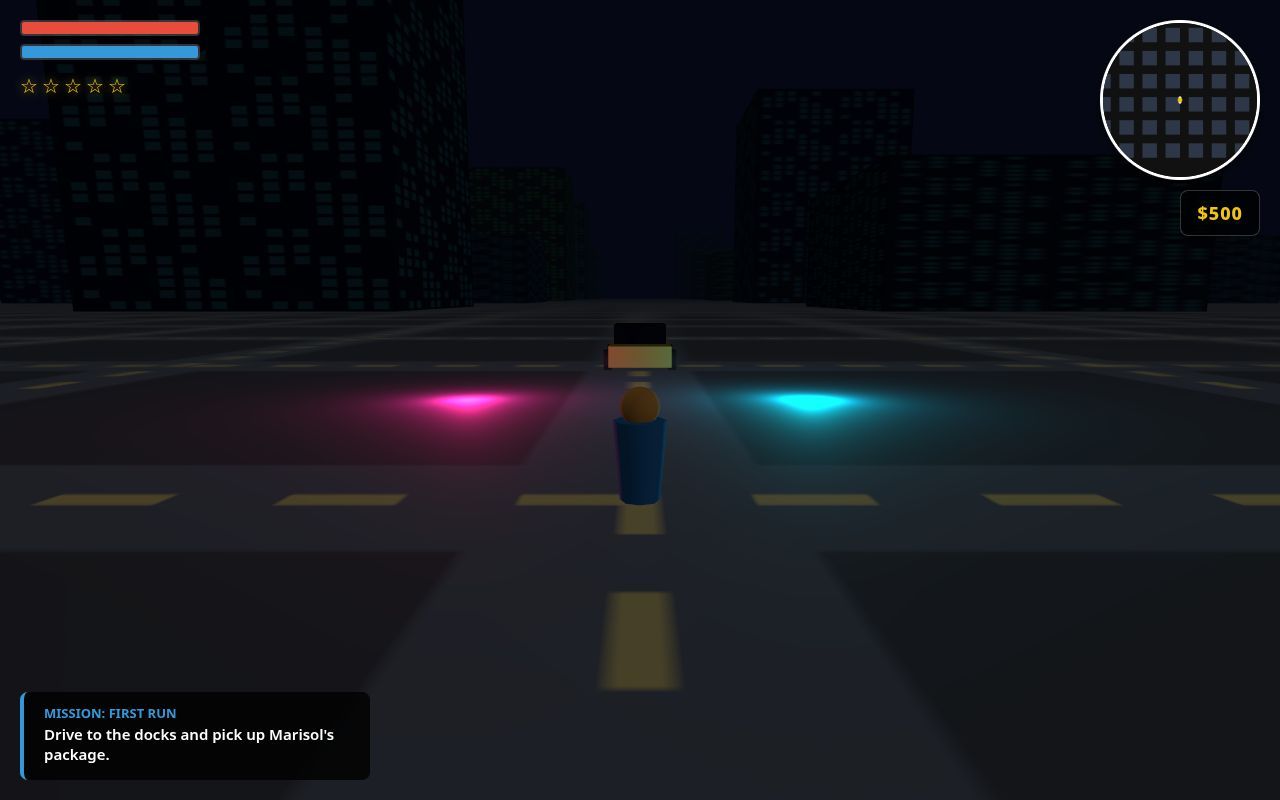
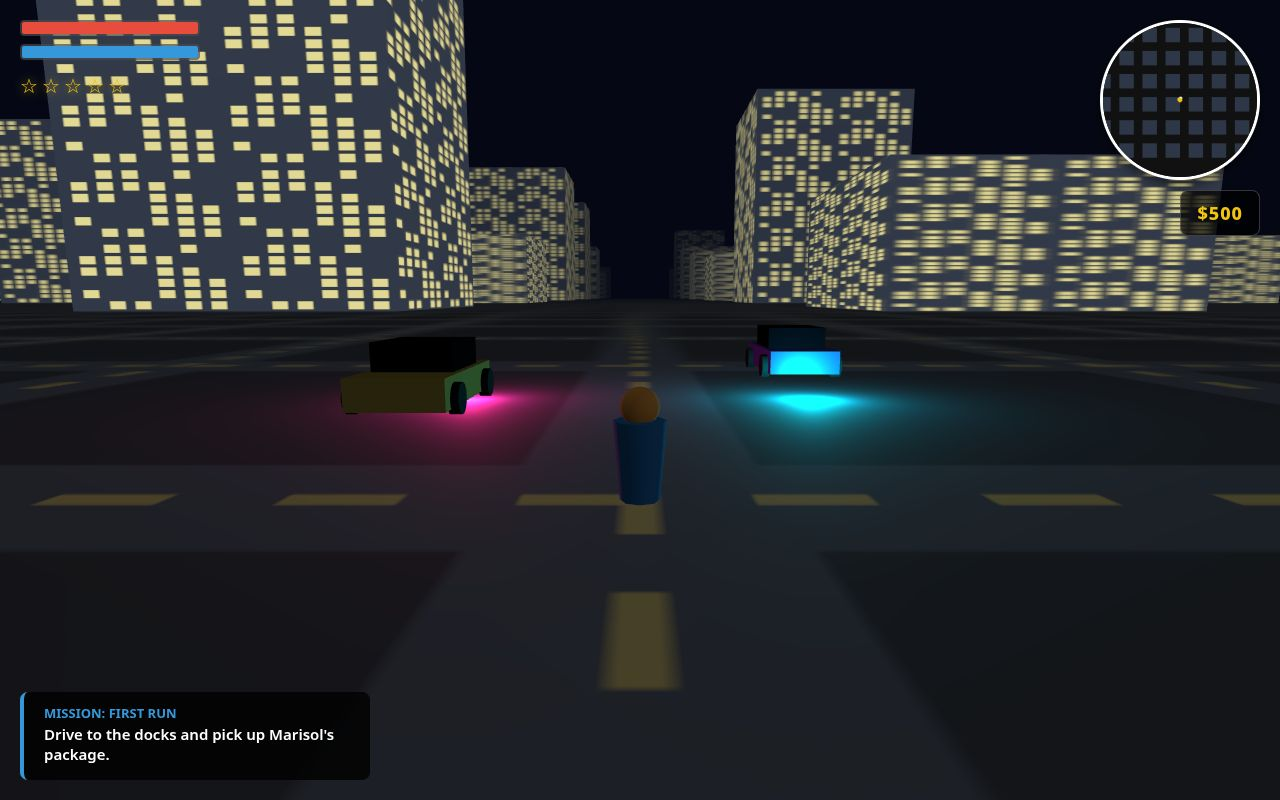
Port Azahar 3D v7 night fix: emissive lit windows, parked cars to curbs

Changed region(s): [[0.0, 0.0, 0.4688, 0.5312], [0.5312, 0.0938, 1.0, 0.4688], [0.4688, 0.4062, 0.5312, 0.4688]]

diff --git a/game/src/main.js b/game/src/main.js
@@ -284,10 +284,19 @@ class PortAzaharGame {
     if (this._lastIsNight !== isNight && this.buildings) {
       this._lastIsNight = isNight;
       const targetTex = isNight ? this.nightBuildingTexture : this.dayBuildingTexture;
-      if (targetTex) {
+      if (targetTex || !isNight) {
         for (const b of this.buildings) {
-          if (b.material && b.material.map !== targetTex) {
+          if (b.material) {
             b.material.map = targetTex;
+            if (isNight) {
+              b.material.emissive.set(0xffffff);
+              b.material.emissiveMap = targetTex;
+              b.material.emissiveIntensity = 0.85;
+            } else {
+              b.material.emissive.set(0x000000);
+              b.material.emissiveMap = null;
+              b.material.emissiveIntensity = 0;
+            }
             b.material.needsUpdate = true;
           }
         }

diff --git a/game/src/shots.js b/game/src/shots.js
@@ -118,11 +118,17 @@ export function handleStagedShot(urlParams, game) {
     game.camera.position.set(340, 3, 430);
     game.camera.lookAt(340, 1.5, 420);
 
-    // 2 parked traffic cars on the same road within 15m of player
-    const car1 = game.spawnCar(340, 405, false);
-    if (car1) game.trafficCars.push(car1);
-    const car2 = game.spawnCar(340, 435, false);
-    if (car2) game.trafficCars.push(car2);
+    // 2 parked traffic cars on the sides of the road
+    const car1 = game.spawnCar(335, 414, false);
+    if (car1) {
+      car1.mesh.rotation.y = 0;
+      game.trafficCars.push(car1);
+    }
+    const car2 = game.spawnCar(345, 407, false);
+    if (car2) {
+      car2.mesh.rotation.y = 0;
+      game.trafficCars.push(car2);
+    }
 
     // Two point lights for neon glow
     const plight1 = new THREE.PointLight(0xff2d95, 60, 60);
